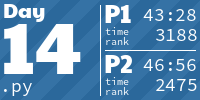
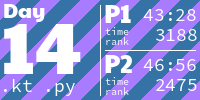
Add day 14

diff --git a/2022/14/14.kt b/2022/14/14.kt
@@ -1,0 +1,27 @@
+fun main() {
+    val lines = generateSequence(::readlnOrNull).toList()
+        .map { it.split(" -> ", ",").map { it.toInt() }.chunked(2) }
+    val width = lines.flatten().maxOf { it[0] } + 200
+    val height = lines.flatten().maxOf { it[1] } + 2
+    val field = MutableList(height) { MutableList(width) { '.' } }
+    fun range(a: Int, b: Int) = minOf(a, b)..maxOf(a, b)
+    fun drawLine(rx: IntRange, ry: IntRange) = rx.map { x -> ry.map { y -> field[y][x] = '#' } }
+    lines.map { it.zipWithNext { (x1, y1), (x2, y2) -> drawLine(range(x1, x2), range(y1, y2))} }
+
+    fun fill(): Int {
+        var endDfs = false
+        fun dfs(x: Int, y: Int): Boolean { 
+            endDfs = endDfs || y >= field.size || field[0][500] == 'O'
+            if (endDfs || field[y][x] != '.')
+                return endDfs
+            if (!(dfs(x, y+1) || dfs(x-1, y+1) || dfs(x+1, y+1))) 
+                field[y][x] = 'O'
+            return true
+        }
+        while (!endDfs) dfs(500, 0)
+        return field.flatten().count { it == 'O' } 
+    }
+    println(fill())
+    field.add(MutableList(width) { '#' })
+    println(fill())
+}

diff --git a/README.md b/README.md
@@ -45,7 +45,7 @@
 <a href="2022/13/13.kt">
   <img src="Media/2022/13.png" width="161px">
 </a>
-<a href="2022/14/14.py">
+<a href="2022/14/14.kt">
   <img src="Media/2022/14.png" width="161px">
 </a>
 <h1 align="center">
